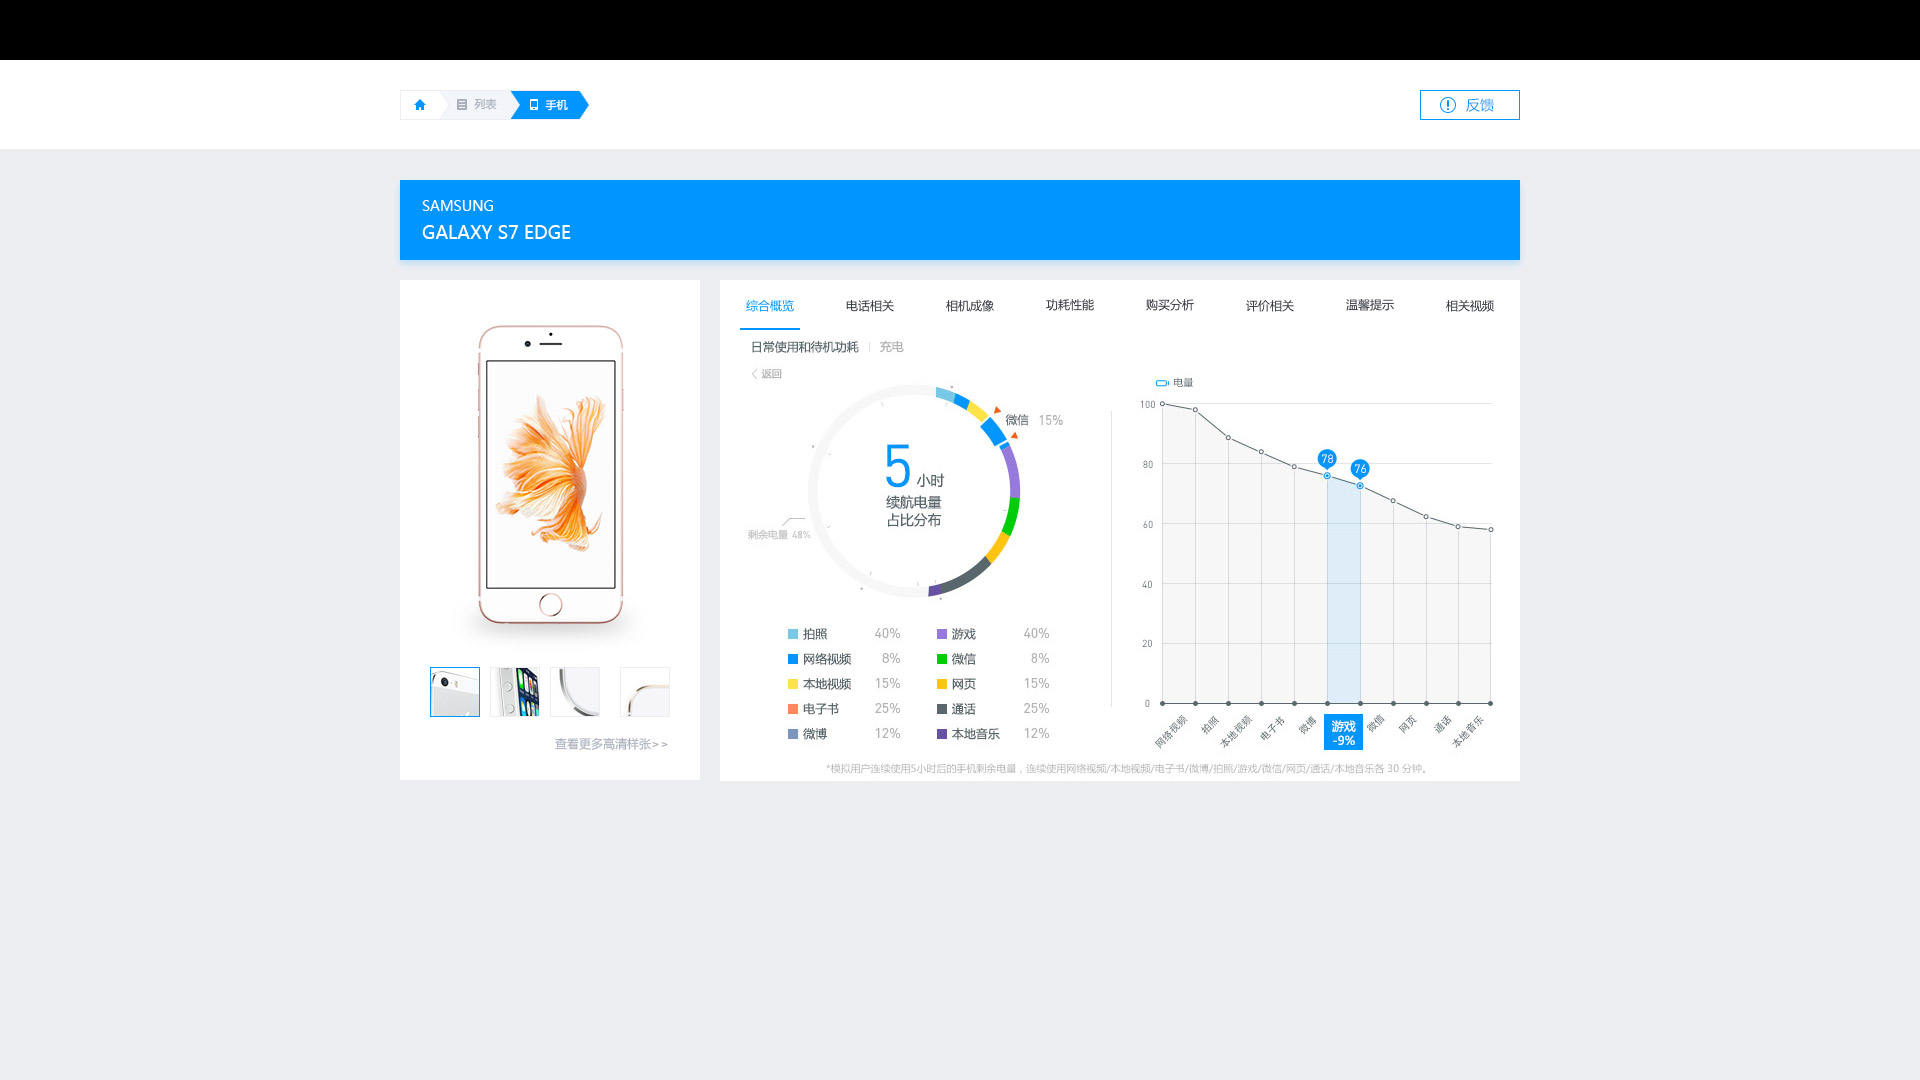
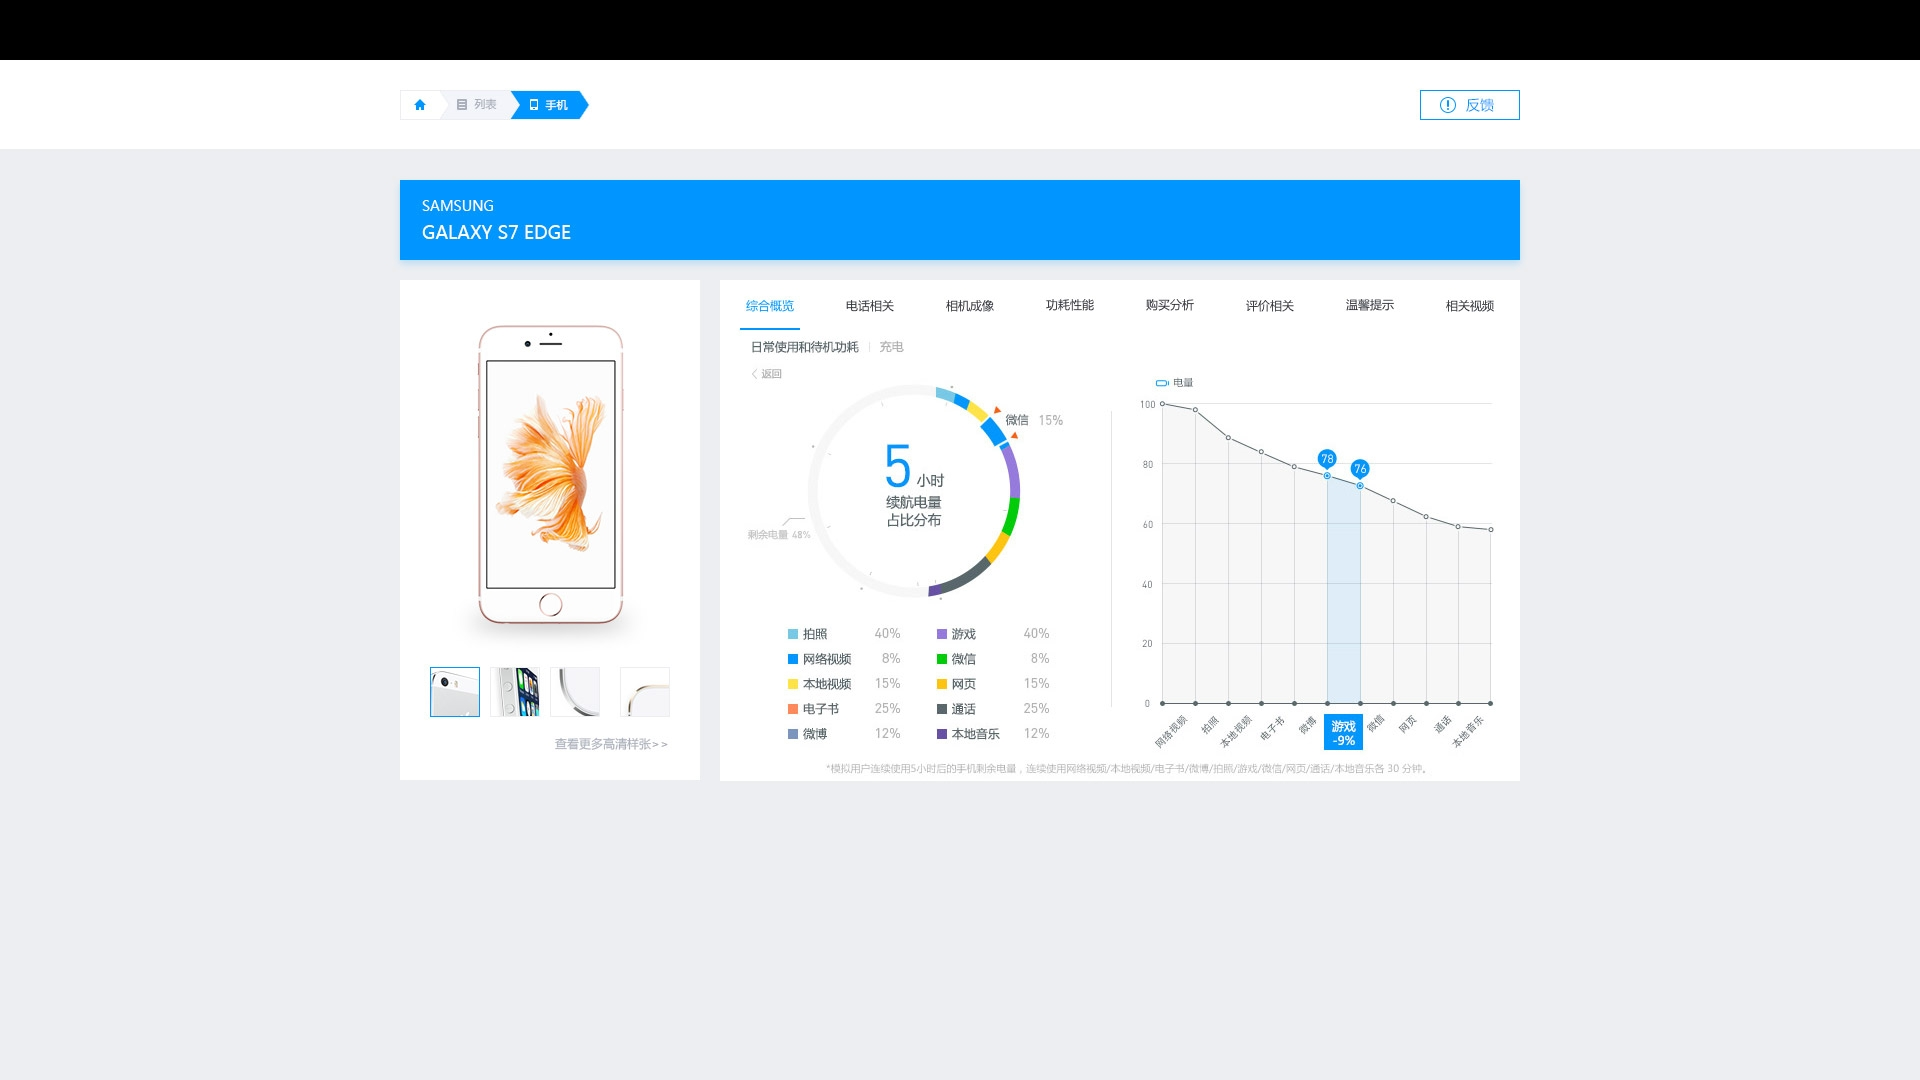
bing tu

diff --git a/pages/lab_test/water.js b/pages/lab_test/water.js
@@ -32,7 +32,11 @@ var batteryWater = function(opts){
 		var ctx = this.ctx;
 		ctx.beginPath();
 		ctx.arc(this.width/2, this.height/2, radius, -pi/2, length-pi/2);
-		ctx.strokeStyle = color;
+		if( color.r ){
+			ctx.strokeStyle = 'rgba(' + color.r + ',' + color.g + ',' + color.b + ',1)';
+		} else {
+			ctx.strokeStyle = color;
+		}
 		ctx.lineWidth = borderWidth;
 		ctx.lineCap = 'round';
 		ctx.stroke();
@@ -63,7 +67,7 @@ var batteryWater = function(opts){
 		ctx.arcTo(-r_width/2, r_height-radius, -r_width/2, r_height-radius-1, r);
 		ctx.arcTo(-r_width/2, -radius, -r_width/2+1, -radius, r);
 		ctx.lineTo(0, -radius);
-		ctx.fillStyle = color;
+		ctx.fillStyle = 'rgba(' + color.r + ',' + color.g + ',' + color.b + ', 1)';
 		ctx.fill();
 		
 		//时间变化
@@ -91,7 +95,7 @@ var batteryWater = function(opts){
 		
 		ctx.beginPath();
 		ctx.arc(_x, _y, 5, 0, 2*pi);
-		ctx.fillStyle = color;
+		ctx.fillStyle = 'rgba(' + color.r + ',' + color.g + ',' + color.b + ', 1)';
 		ctx.fill();
 		ctx.closePath();
 
@@ -103,7 +107,7 @@ var batteryWater = function(opts){
 
 		ctx.beginPath();
 		ctx.arc(_x, _y, 2, 0, 2*pi);
-		ctx.fillStyle = color;
+		ctx.fillStyle = 'rgba(' + color.r + ',' + color.g + ',' + color.b + ', 1)';
 		ctx.fill();
 		ctx.closePath();
 
@@ -154,7 +158,7 @@ var batteryWater = function(opts){
 	};
 
 	//水量
-	this.makeWater = function(radius, num, clock){
+	/*this.makeWater = function(radius, num, clock){
 		var _start = pi * (0.5 - num /100);  	
 		//_start-(-pi/2):开始位置（从0点钟开始, 即-pi/2）到右边流量的弧长，再根据对称算出一半的流量弧长，乘以2后即为整个弧长长度
 		var _end = (pi - (_start + pi/2)) * 2;
@@ -165,10 +169,10 @@ var batteryWater = function(opts){
 		ctx.fillStyle = 'green';
 		ctx.fill();
 		ctx.closePath();
-	};
+	};*/
 
 	//波浪
-	this.drawWave = function(radius, now_num, waveAngle, num, color){
+	this.drawWave = function(radius, now_num, waveAngle, color){
 		var ctx = this.ctx;
 		//y为弧长相对应的纵轴长度，即整个高度需要减去的长度
 		var y = now_num/100 * 2 * radius;
@@ -182,7 +186,7 @@ var batteryWater = function(opts){
 		ctx.beginPath();
 		ctx.font = '20px';
 		ctx.textAlign = 'center';
-		ctx.strokeStyle = color;
+		ctx.strokeStyle = 'rgba(' + color.r + ',' + color.g + ',' + color.b + ', 1)';
 		ctx.strokeText(parseInt(100-now_num) + ' %', 0, -50);
 		ctx.closePath();
 		ctx.restore();
@@ -210,7 +214,7 @@ var batteryWater = function(opts){
 			2*radius,	dis_y + rightHeight / pointWave
 		);
 		ctx.lineTo(2*radius, 0);
-		ctx.fillStyle = 'rgba(200, 0, 200, 0.2)';
+		ctx.fillStyle = 'rgba(' + color.r + ',' + color.g + ',' + color.b + ', 0.2)';
 		ctx.fill();
 		ctx.closePath();
 
@@ -224,7 +228,7 @@ var batteryWater = function(opts){
 			2*radius,	dis_y + rightHeight / pointWave
 		);
 		ctx.lineTo(2*radius, 0);
-		ctx.fillStyle = 'rgba(200, 0, 200, 0.2)';
+		ctx.fillStyle = 'rgba(' + color.r + ',' + color.g + ',' + color.b + ', 0.2)';
 		ctx.fill();
 		ctx.closePath();
 
@@ -239,7 +243,9 @@ var batteryWater = function(opts){
 	var animate_over = false;	//时钟动画是否结束
 	var scale_num = 1;
 	var scale_speed = 0.01;
-	var change_color = 'rgba(68, 190, 6, 1)';
+
+	var now_color = {};
+	//var change_color = 'rgba(68, 190, 6, 1)';
 	//change_color = 'rgba(255, 196, 17, 1)';
 	//change_color = 'rgba(248, 97, 23, 1)';
 	var green = {
@@ -266,21 +272,28 @@ var batteryWater = function(opts){
 			self.ctx.clearRect(0, 0, self.width, self.height);
 
 			self.makeCircle(149, 2*pi, self.color.gray, 1);
-			self.makeCircle(138, 2*pi, change_color, 1);
+			self.makeCircle(138, 2*pi, now_color, 1);
 			self.makeClock(145, self.timeScale, self.color.gray);
-			self.drawTip(180, _length, minutes, animate_over, scale_num, change_color);
+			self.drawTip(180, _length, minutes, animate_over, scale_num, now_color);
 
-			self.drawWave(138, now_num, waveAngle_1, change_color);
+			self.drawWave(138, now_num, waveAngle_1, now_color);
 			//self.makeWater(210, now_num);
-			self.makeCircle(138, _length, change_color, 3);
-			self.drawBall(138, _length, change_color);
+			self.makeCircle(138, _length, now_color, 3);
+			self.drawBall(138, _length, now_color);
+
+			if( now_num <= 30 ){
+				now_color = green;
+			} else if( now_num > 30 && now_num <= 35 ){
+			} else if( now_num > 35 && now_num <= 65 ){
+				now_color = yellow;
+			} else if( now_num > 65 && now_num <= 70 ) {
+			} else if( now_num > 70 && now_num <= 100 ){
+				now_color = red;
+			}
 			
 			if( self.consume ){
 				now_num = (100 - self.num)/self.minutes * minutes;
-				if( now_num < 35 ){
-				} else if( now_num > 34 && now_num < 68 ) {
-				} else if( now_num > 67 && now_num < 101 ) {
-				}
+				
 			} else {
 				now_num = 100 - (100/self.minutes) * minutes;
 			}
@@ -321,5 +334,5 @@ var drawWater = new batteryWater({
 	minutes: 240,
 	allMinutes: 300,
 	num: 10,
-	consume: true  
+	consume: true 
 });

diff --git a/pages/lab_test/bing.js b/pages/lab_test/bing.js
@@ -58,7 +58,7 @@ var batteryWater = function(opts){
 			obj.percent= parseInt( self.content[index-1].values * 100  - item.values * 100 );
 			obj.num = parseInt( self.content[index-1].values * 100  - item.values * 100 );
 			obj.end = (start + obj.percent)/100 * 2 * pi - pi/2;
-			obj.middle = (obj.end - obj.start)/2;
+			obj.middle = (obj.end + obj.start)/2;
 
 			arr_content.push(obj);
 			all_num += obj.percent;
@@ -72,9 +72,9 @@ var batteryWater = function(opts){
 					start: all_num/100 * 2 * pi - pi/2,
 					percent: 100 - all_num,
 					num: 100 - item.values * 100,
-					end: -pi/2
+					end: 2*pi - pi/2
 				};
-				last.middle = (last.end - last.start)/2;
+				last.middle = (last.end + last.start)/2;
 				arr_content.push(last);
 			}
 		}
@@ -84,31 +84,87 @@ var batteryWater = function(opts){
 	this.makeBlock = function(radius, item, height, hover){
 		var ctx = this.ctx;
 		var w_width = 1/180 * pi;
+		var w_radius = 210;
 		ctx.save();
 		ctx.translate(this.width/2, this.height/2);
+
+		//提示文字
+		var makeWords = function(){
+			var w_x = (w_radius + 10) * Math.cos(item.middle);
+			var w_y = (w_radius + 10)* Math.sin(item.middle);
+			ctx.beginPath();
+			ctx.moveTo( w_radius * Math.cos(item.middle), w_radius * Math.sin(item.middle));
+			ctx.lineTo( w_x, w_y);
+			
+			if( item.middle <= pi/2 )
+			ctx.lineTo( w_x + 20, w_y);
+			else
+			ctx.lineTo( w_x - 20, w_y);
+			ctx.strokeStyle = 'gray';
+			ctx.stroke();
+
+			ctx.font = '10px';
+			ctx.strokeStyle = '#000';
+			ctx.textBaseline = 'middle';
+			if( item.middle <= pi/2 )
+			ctx.strokeText(item.name + ' ' + item.percent + '%', w_x + 25, w_y);
+			else{
+				ctx.textAlign = 'right';
+				ctx.strokeText(item.name + ' ' + item.percent + '%', w_x-25, w_y);
+			}
+			ctx.closePath();
+
+		};
 	
 		ctx.beginPath();
 		ctx.moveTo(0, 0);
 		if( hover ){
+			//用白色扇形铺垫形成白边
 			ctx.arc(0, 0, radius+1, item.start, item.end);
 			ctx.lineTo(0, 0);
 			ctx.fillStyle = '#fff';
 			ctx.fill();
 			ctx.closePath();
 
+			//hover的区域
 			ctx.beginPath();
 			ctx.moveTo(0, 0);
 			ctx.arc(0, 0, radius, item.start + w_width, item.end - w_width);
 			ctx.lineTo(0, 0);
 			ctx.fillStyle = item.color;
 			ctx.fill();
+			ctx.closePath();
+			
+			makeWords();
+			
+			//小三角
+			var s_radius = 210;
+			var s_width = 5;
+			for(var i=0; i<2; i++){
+				ctx.save();
+				if(i) ctx.rotate(item.end + pi/2);
+				else ctx.rotate(item.start + pi/2);
+				ctx.beginPath();	
+				ctx.moveTo(0, -s_radius); 
+				ctx.lineTo(s_width, -s_radius - s_width);
+				ctx.lineTo(-s_width, -s_radius - s_width);
+				ctx.lineTo(0, -s_radius);
+				ctx.fillStyle = 'red';
+				ctx.fill();
+				ctx.closePath();
+				ctx.restore();
+			}
 		} else {
 			ctx.arc(0, 0, radius, item.start, item.end);
 			ctx.lineTo(0, 0);
 			ctx.fillStyle = item.color;
 			ctx.fill();
+			ctx.closePath();
 		}
-		ctx.closePath();
+		
+		if( item.index == arr_content.length - 1){
+			makeWords();
+		}
 
 		ctx.restore();
 	};
@@ -132,18 +188,18 @@ var batteryWater = function(opts){
 
 	this.run = function(angle){
 		//判断鼠标在哪个区域
-		var catch_obj = {};
+		var catch_obj = null;
 		$.each(arr_content, function(index, item){
-			if( angle && angle >= item.start && angle <= item.end ){
+			if( angle && angle >= item.start && angle <= item.end && item.index != arr_content.length - 1 ){
 				catch_obj = item;
 			} else {
-				self.makeBlock(radius, item, height);
+				self.makeBlock(radius, item, height, false);
 			}
 		});
 		//先画中间的白色圆
 		self.makeCircle(radius-height);
 		//画出hover的部分
-		if( catch_obj.index != arr_content.length -1 ){
+		if( catch_obj ){
 			self.makeBlock(radius, catch_obj, height+8, true);
 			self.makeCircle(radius-height-8);
 		}
@@ -154,8 +210,15 @@ var batteryWater = function(opts){
 		var mouse = F.getMousePos(ev, $(this));
 		//相对于中心原点的坐标轴位置
 		var pos = { x: mouse.x - self.width/2, y: mouse.y - self.height/2 };
+
 		//鼠标与X轴正方向的弧长
 		var angle = Math.atan2(pos.y, pos.x);
+
+		//当鼠标移到左上角区域时做处理，因为鼠标angle的范围原来为(0, pi, -pi, -0)，在x轴负方向，pi即等于-pi，即突然变小，不是一直增大的过程
+		//而start和end由于从0刻度开始所以的范围是-pi/2到3/2*pi，即-pi/2 + 2 * pi，从-pi到3/2*pi是一直增大的过程
+		if( angle >= -pi && angle < -pi/2 ) 
+		angle = 2*pi - Math.abs(angle);
+
 		//鼠标距离中心店的距离
 		var length = Math.abs(pos.y / Math.sin(angle));
 
@@ -184,7 +247,7 @@ var drawWater = new batteryWater({
 		{name: '微信', values: '0.36'},
 		{name: '网页', values: '0.32'},
 		{name: '通话', values: '0.31'},
-		{name: '本地音乐', values: '0.28'},
+		{name: '本地音乐', values: '0.11'},
 	],
 	color: [
 		'#0096ff',
